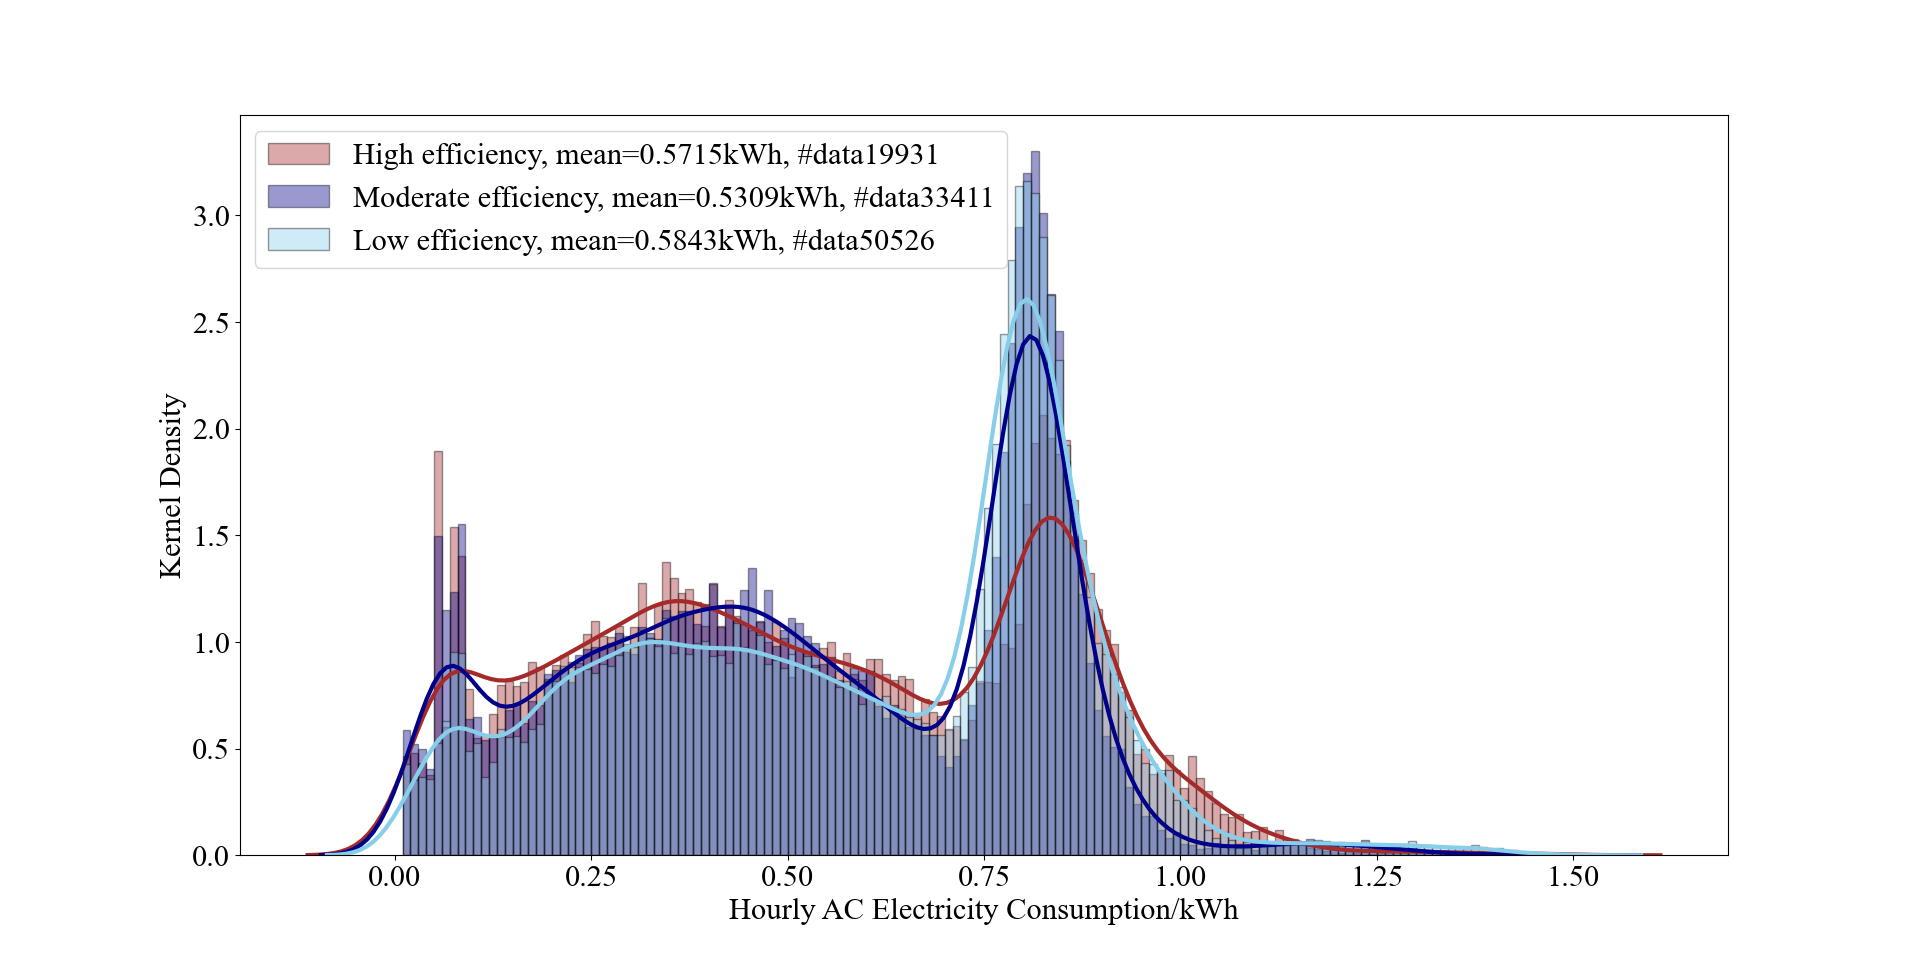
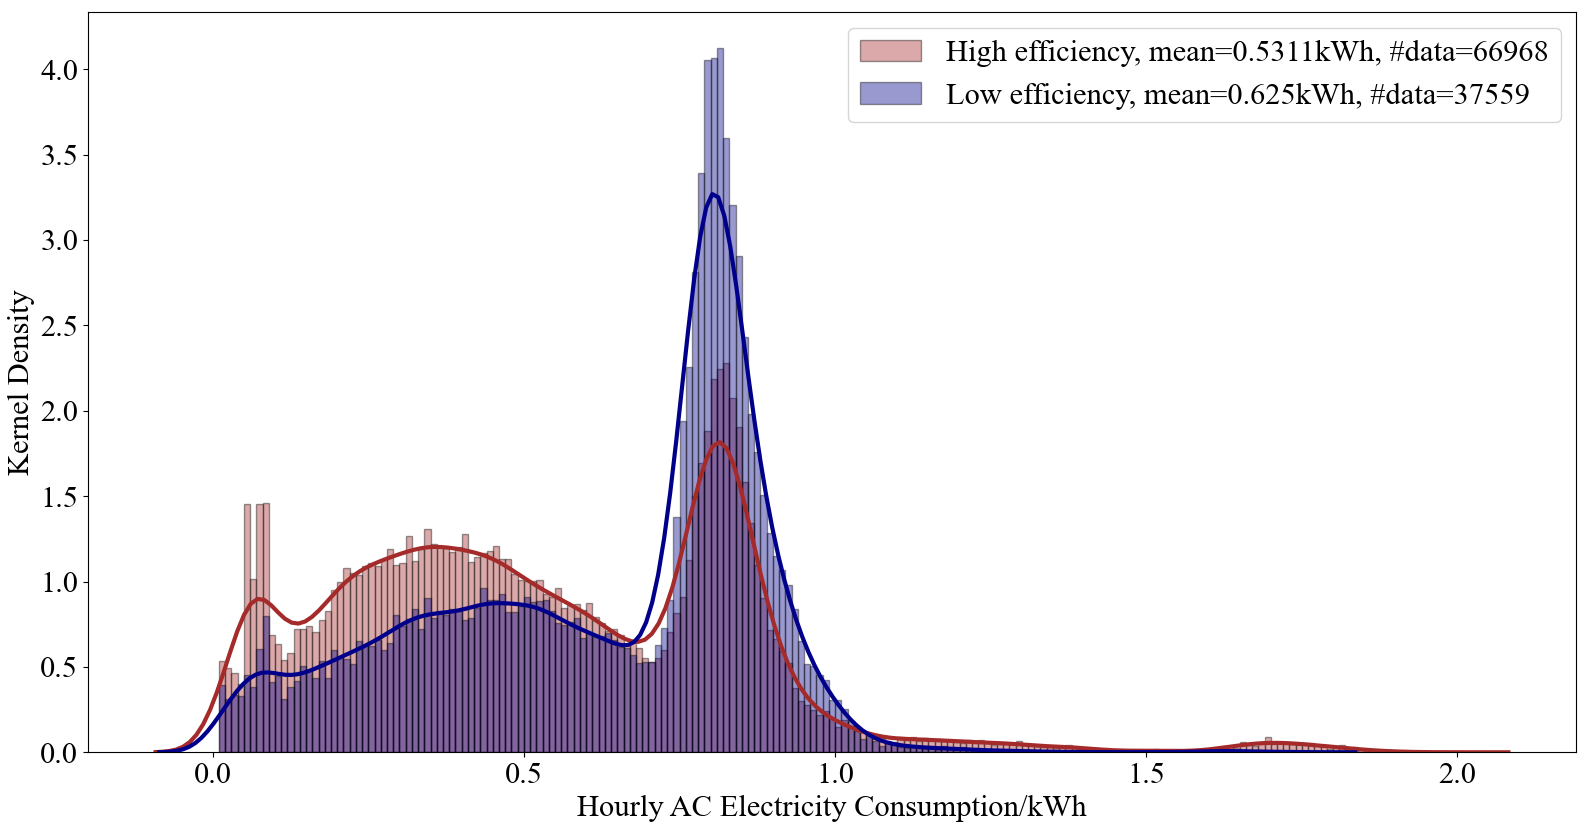
upload data description plot

diff --git a/room_comparison_plotting.py b/room_comparison_plotting.py
@@ -1,65 +1,83 @@
 import warnings
 
-import matplotlib.pyplot as plt
 import numpy as np
 import pandas as pd
 import seaborn as sns
+from matplotlib import pyplot as plt
 
-# Ignore all the warnings
+folder_name = "20210616130636_cate2_KMeans"
+mode = "CLU"  # "CSV" or "CLU"
+categories = ["High", "Low"]
+
+# Ignore all the warnings and Set some general settings of all the matplotlib.
 warnings.filterwarnings('ignore')
-
-numpy_file_name = ""
-
-lists = np.load('./{}'.format(numpy_file_name), allow_pickle=True).item()
-num_cates = len(lists)
-
-# Read the original data
-data = pd.read_csv('./summer_data_compiled.csv')
-data = data[(data.AC > 0) & (data.Prev_1hr)]
-
-room_split = pd.read_csv('./room_classification.csv', index_col=None)
-
-# Read the List of all rooms and classify them into three efficient list by human observation
-room_list = data['Location'].unique()
-efficient_list = room_split[room_split['Room AC Status- Lu-20210521'] == 'High efficiency']['Room Number']
-moderate_list = room_split[room_split['Room AC Status- Lu-20210521'] == 'Moderate efficiency']['Room Number']
-inefficient_list = room_split[room_split['Room AC Status- Lu-20210521'] == 'Low efficiency']['Room Number']
-
-# create three dataframe list to store the dataframes
-high_list = [data[data.Location == i] for i in efficient_list]
-mid_list = [data[data.Location == i] for i in moderate_list]
-low_list = [data[data.Location == i] for i in inefficient_list]
-
-# Concat three lists into three dataframes
-high_df = pd.concat(high_list)
-mid_df = pd.concat(mid_list)
-low_df = pd.concat(low_list)
-
-# Set some general settings of all the matplotlib.
 plt.rcParams.update({'font.size': 22})
 plt.rc('font', family='Times New Roman')
 
-# Calculate the mean of the data
-high_mean, mid_mean, low_mean = round(np.array(high_df['AC']).mean(), 4), round(np.array(mid_df['AC']).mean(),
-                                                                                4), round(np.array(low_df['AC']).mean(),
-                                                                                          4)
-# Filter out the data less than 1.5
-high_df = high_df[high_df.AC < 1.5]
-mid_df = mid_df[mid_df.AC < 1.5]
-low_df = low_df[low_df.AC < 1.5]
+colors = ['brown', 'darkblue', 'skyblue']
 
-# Plot the distribution plot.
-sns.distplot(high_df['AC'], bins=sorted(high_df['AC'].unique()),
-             label="High efficiency, mean={}kWh, #data{}".format(high_mean, len(high_df)), color="brown",
-             hist_kws={"edgecolor": "black"}, kde_kws={"linewidth": "3"})
-sns.distplot(mid_df['AC'], bins=sorted(mid_df['AC'].unique()),
-             label="Moderate efficiency, mean={}kWh, #data{}".format(mid_mean, len(mid_df)), color="darkblue",
-             hist_kws={"edgecolor": "black"}, kde_kws={"linewidth": "3"})
-sns.distplot(low_df['AC'], bins=sorted(low_df['AC'].unique()),
-             label="Low efficiency, mean={}kWh, #data{}".format(low_mean, len(low_df)), color="skyblue",
-             hist_kws={"edgecolor": "black"}, kde_kws={"linewidth": "3"})
+# Read the original data
+data = pd.read_csv('./summer_data_compiled.csv', index_col=0)
+print(len(data))
+data = data[(data.AC > 0) & (data.Prev_1hr)]
+print(len(data))
 
-plt.legend()
-plt.xlabel("Hourly AC Electricity Consumption/kWh")
-plt.ylabel("Kernel Density")
-plt.show()
+if mode == "CLU":
+    lists = np.load('{}/category.npy'.format(folder_name), allow_pickle=True)
+    num_cates = len(lists)
+
+    dataframes = [[data[data.Location == int(i)] for i in lis] for lis in lists]
+    dataframe_list = [pd.concat(dataframes[i]) for i in range(num_cates)]
+    mean_list = [round(np.array(df['AC']).mean(), 4) for df in dataframe_list]
+    print(mean_list)
+
+    for i in range(num_cates):
+        sns.distplot(dataframe_list[i]['AC'], bins=sorted(dataframe_list[i]['AC'].unique()),
+                     label="{} efficiency, mean={}kWh, #data={}".format(categories[i], mean_list[i],
+                                                                        len(dataframe_list[i])), color=colors[i],
+                     hist_kws={"edgecolor": "black"}, kde_kws={"linewidth": "3"})
+    plt.legend()
+    plt.xlabel("Hourly AC Electricity Consumption/kWh")
+    plt.ylabel("Kernel Density")
+    plt.show()
+
+elif mode == "CSV":
+    room_split = pd.read_csv('./room_classification.csv', index_col=None)
+
+    # Read the List of all rooms and classify them into three efficient list by human observation
+    room_list = data['Location'].unique()
+    efficient_list = room_split[room_split['Room AC Status- Lu-20210521'] == 'High efficiency']['Room Number']
+    moderate_list = room_split[room_split['Room AC Status- Lu-20210521'] == 'Moderate efficiency']['Room Number']
+    inefficient_list = room_split[room_split['Room AC Status- Lu-20210521'] == 'Low efficiency']['Room Number']
+
+    # create three dataframe list to store the dataframes
+    high_list = [data[data.Location == i] for i in efficient_list]
+    mid_list = [data[data.Location == i] for i in moderate_list]
+    low_list = [data[data.Location == i] for i in inefficient_list]
+
+    # Concat three lists into three dataframes
+    high_df = pd.concat(high_list)
+    mid_df = pd.concat(mid_list)
+    low_df = pd.concat(low_list)
+
+    # Calculate the mean of the data
+    high_mean, mid_mean, low_mean = round(np.array(high_df['AC']).mean(), 4), round(np.array(mid_df['AC']).mean(),
+                                                                                    4), round(
+        np.array(low_df['AC']).mean(), 4)
+    print(high_mean, mid_mean, low_mean)
+
+    # Plot the distribution plot.
+    sns.distplot(high_df['AC'], bins=sorted(high_df['AC'].unique()),
+                 label="High efficiency, mean={}kWh, #data{}".format(high_mean, len(high_df)), color="brown",
+                 hist_kws={"edgecolor": "black"}, kde_kws={"linewidth": "3"})
+    sns.distplot(mid_df['AC'], bins=sorted(mid_df['AC'].unique()),
+                 label="Moderate efficiency, mean={}kWh, #data{}".format(mid_mean, len(mid_df)), color="darkblue",
+                 hist_kws={"edgecolor": "black"}, kde_kws={"linewidth": "3"})
+    sns.distplot(low_df['AC'], bins=sorted(low_df['AC'].unique()),
+                 label="Low efficiency, mean={}kWh, #data{}".format(low_mean, len(low_df)), color="skyblue",
+                 hist_kws={"edgecolor": "black"}, kde_kws={"linewidth": "3"})
+
+    plt.legend()
+    plt.xlabel("Hourly AC Electricity Consumption/kWh")
+    plt.ylabel("Kernel Density")
+    plt.show()

diff --git a/shapley_cluster.py b/shapley_cluster.py
@@ -1,39 +1,39 @@
 import os
+from datetime import datetime
 from glob import glob
 from shutil import copyfile
 
 import cv2
 import numpy as np
-from sklearn.cluster import MiniBatchKMeans
+from sklearn.cluster import KMeans, MiniBatchKMeans
+
+categories = 3
+available_cates = ["KMeans", "MiniKMeans"]
+cate_name = "KMeans"
+
+folder_name = '{}_cate{}_{}/'.format(datetime.now().strftime("%Y%m%d%H%M%S"), categories, cate_name)
+cate_symbol = ['a', 'b', 'c', 'd']
+cates = [[] for _ in range(categories)]
 
 images = glob('./Test_R2_HYPEROPT_SMOTE/shap_T_ac_plot/*.png')
 room_list = [img.split('\\')[-1].split('.')[0] for img in images]
 image_list = np.array([cv2.imread(img) for img in images])
 image_list = image_list.reshape(len(image_list), -1)
-print(room_list)
-print(images)
 
-kmeans = MiniBatchKMeans(4)
-kmeans.fit(image_list)
-print(kmeans.labels_)
-cate_a, cate_b, cate_c, cate_d = [], [], [], []
+if cate_name == "KMeans":
+    cluster = KMeans(categories)
+elif cate_name == "MiniKMeans":
+    cluster = MiniBatchKMeans(categories)
+else:
+    cluster = KMeans(categories)
+cluster.fit(image_list)
+print(cluster.labels_)
 
-os.mkdir('catea/')
-os.mkdir('cateb/')
-os.mkdir('catec/')
-os.mkdir('cated/')
-for ind, i in enumerate(kmeans.labels_):
-    if i == 0:
-        cate_a.append(room_list[ind])
-        copyfile(images[ind], 'catea/{}.png'.format(room_list[ind]))
-    if i == 1:
-        cate_b.append(room_list[ind])
-        copyfile(images[ind], 'cateb/{}.png'.format(room_list[ind]))
-    if i == 2:
-        cate_c.append(room_list[ind])
-        copyfile(images[ind], 'catec/{}.png'.format(room_list[ind]))
-    if i == 3:
-        cate_d.append(room_list[ind])
-        copyfile(images[ind], 'cated/{}.png'.format(room_list[ind]))
-category = {1: cate_a, 2: cate_b, 3: cate_c, 4: cate_d}
-np.save('./category.npy', category)
+os.mkdir('{}/'.format(folder_name))
+for i in range(categories):
+    os.mkdir('{}/{}'.format(folder_name, cate_symbol[i]))
+for ind, i in enumerate(cluster.labels_):
+    cates[i].append(room_list[ind])
+    copyfile(images[ind], '{}/{}/{}.png'.format(folder_name, cate_symbol[i], room_list[ind]))
+
+np.save('./{}/category.npy'.format(folder_name), cates)
